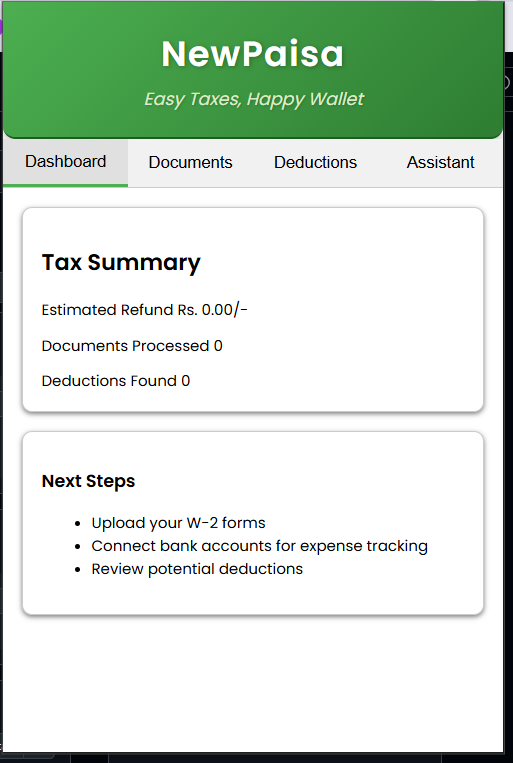
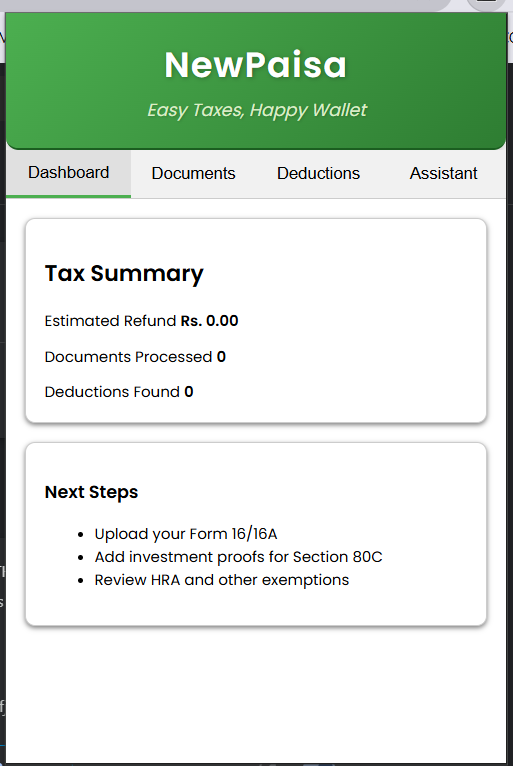
Changes in popup.html

Changed region(s): [[0.0, 0.0, 1.0, 1.0]]

diff --git a/popup.html b/popup.html
@@ -1,4 +1,3 @@
-<!-- popup.html -->
 <!DOCTYPE html>
 <html>
 <head>
@@ -27,7 +26,7 @@
           <div class="summary-stats">
             <div class="stat">
               <span class="stat-label">Estimated Refund</span>
-              <span class="stat-value" id="refund-amount">Rs. 0.00/-</span>
+              <span class="stat-value" id="refund-amount">Rs. 0.00</span>
             </div>
             <div class="stat">
               <span class="stat-label">Documents Processed</span>
@@ -43,9 +42,9 @@
         <div class="action-card">
           <h3>Next Steps</h3>
           <ul id="action-items" class="action-list">
-            <li class="action-item">Upload your W-2 forms</li>
-            <li class="action-item">Connect bank accounts for expense tracking</li>
-            <li class="action-item">Review potential deductions</li>
+            <li class="action-item">Upload your Form 16/16A</li>
+            <li class="action-item">Add investment proofs for Section 80C</li>
+            <li class="action-item">Review HRA and other exemptions</li>
           </ul>
         </div>
       </div>
@@ -72,17 +71,18 @@
         </div>
       </div>
       
-            <!-- --------------------------------------------------------------------- -->
+      <!-- --------------------------------------------------------------------- -->
       <div id="deductions" class="tab-content">
         <h2>Potential Deductions</h2>
         <div class="deduction-filters">
           <select id="deduction-category">
             <option value="all">All Categories</option>
-            <option value="business">Business Expenses</option>
-            <option value="education">Education</option>
-            <option value="healthcare">Healthcare</option>
-            <option value="home">Home & Mortgage</option>
-            <option value="charity">Charitable Donations</option>
+            <option value="section-80c">Section 80C</option>
+            <option value="section-80d">Section 80D (Health)</option>
+            <option value="section-80g">Section 80G (Donations)</option>
+            <option value="section-24">Home Loan Interest</option>
+            <option value="hra">HRA Exemption</option>
+            <option value="nps">NPS Contribution</option>
           </select>
           <div class="search-box">
             <input type="text" id="deduction-search" placeholder="Search deductions...">
@@ -100,11 +100,11 @@
           <div class="chat-container" id="chat-messages">
             <!-- Chat messages will appear here -->
             <div class="message system-message">
-              <p>Hello! I'm your NewPaisa AI Tax Assistant. How can I help you with your taxes today?</p>
+              <p>Namaste! I'm your NewPaisa AI Tax Assistant. How can I help you with your Income Tax filing today?</p>
             </div>
           </div>
           <div class="input-container">
-            <input type="text" id="user-input" placeholder="Ask about deductions, tax laws, or filing questions...">
+            <input type="text" id="user-input" placeholder="Ask about tax slabs, exemptions, or ITR filing...">
             <button id="send-message">Send</button>
           </div>
         </div>

diff --git a/content.js b/content.js
@@ -1,4 +1,4 @@
-// content.js (Mostly a context file.)
+// content.js (Context File. Shortcut Hover Button is also defined here.)
 const fieldMappings = {
   'cleartax.in': {
     'form16_employer_name': '#employerName',

diff --git a/styles.css b/styles.css
@@ -91,7 +91,10 @@ body {
     grid-template-columns: 1fr;
     gap: 10px;
   }
-  
+
+  .stat-value{
+    font-weight: bold;
+  }
   .deduction-filters, .input-container {
     display: flex;
     gap: 10px;
